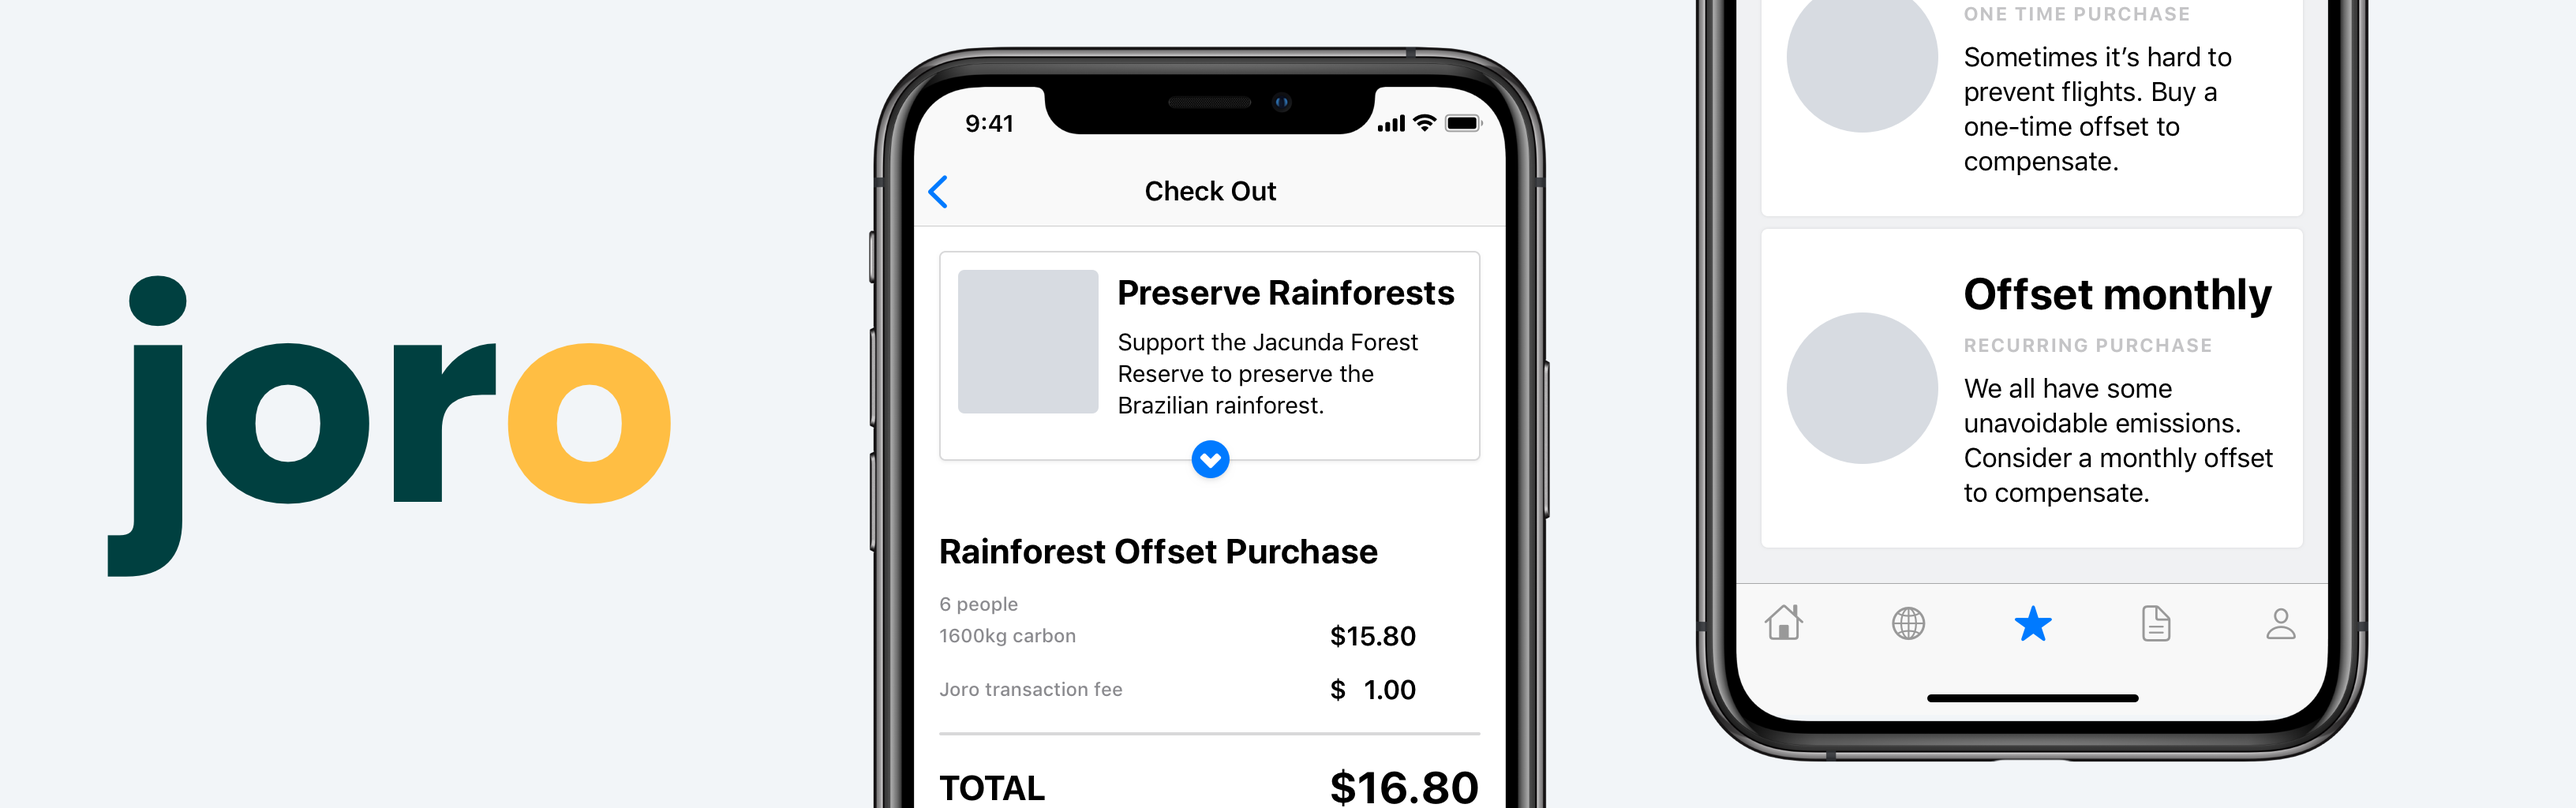
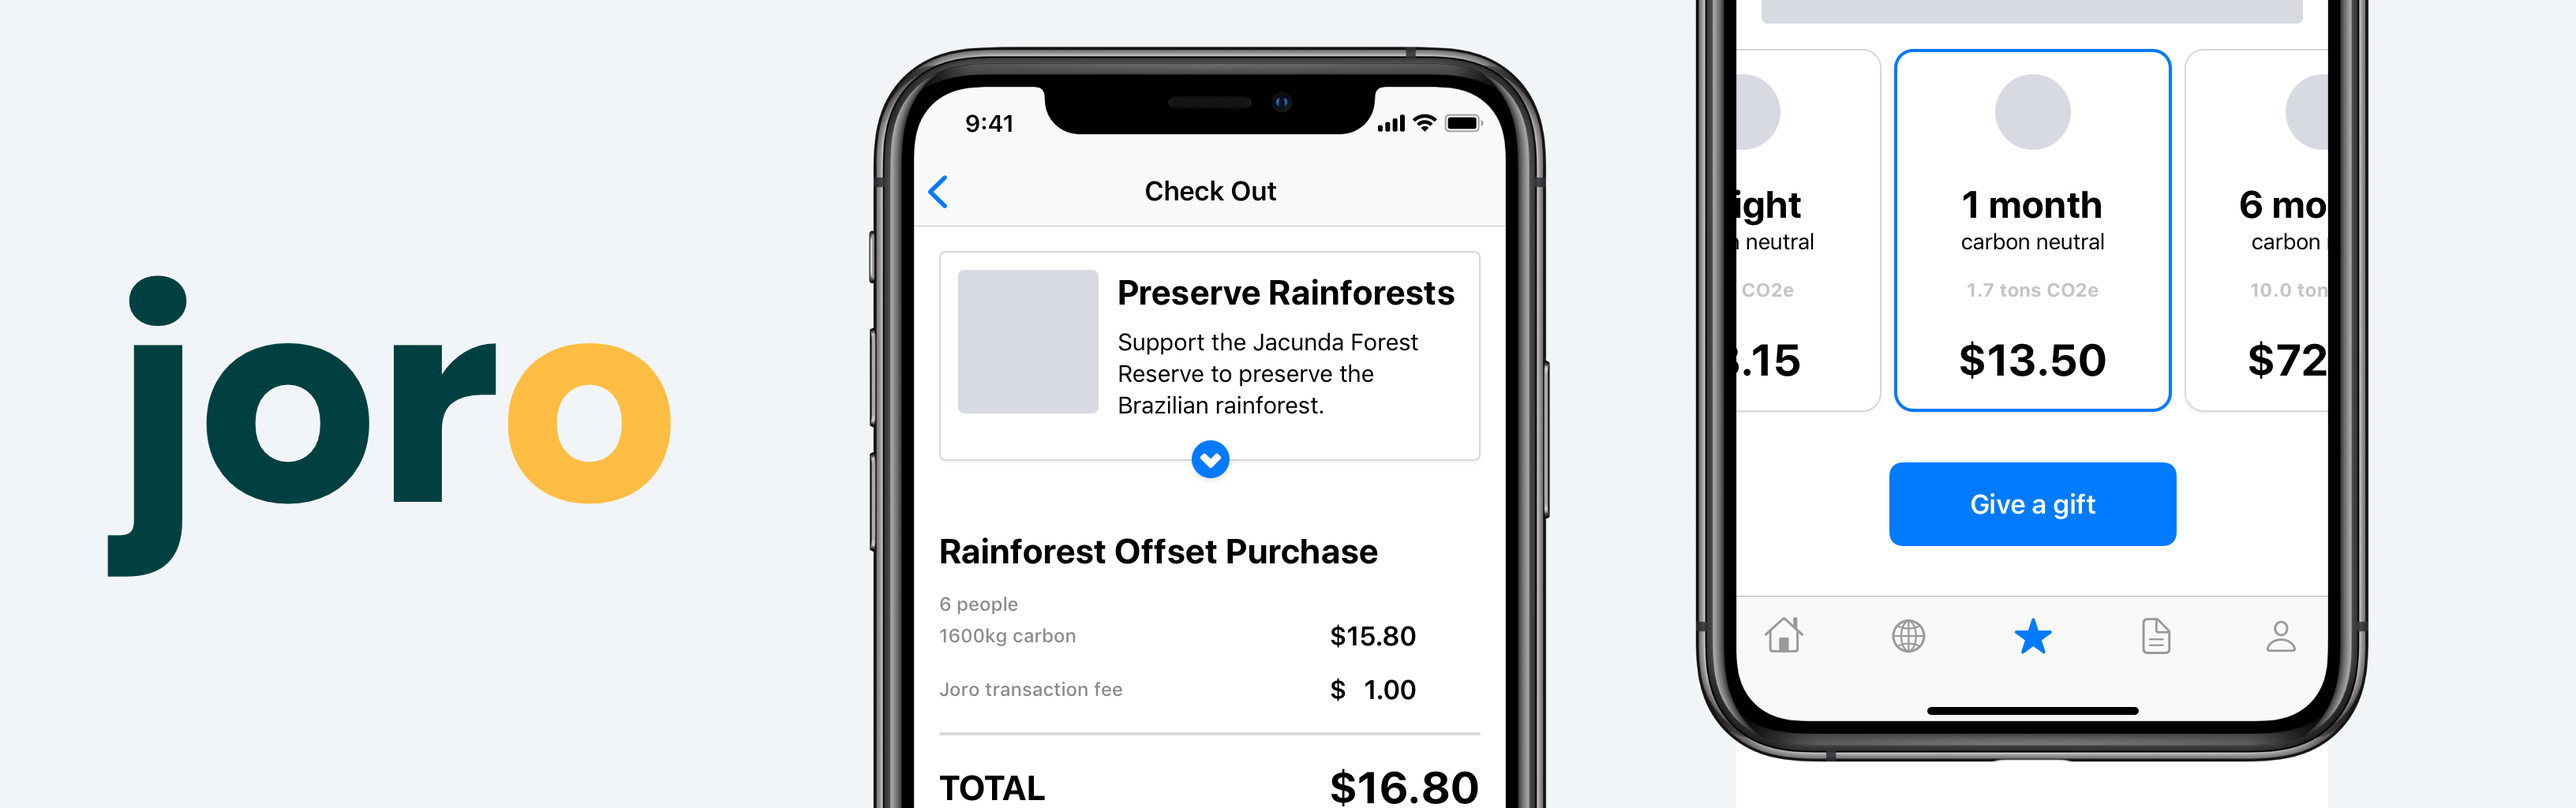
added more to joro case study

diff --git a/joro.html b/joro.html
@@ -53,14 +53,14 @@
 				<div class="case-study-text-flex">
 					<div class="case-study-body-container-center">
 						<h2 class="case-study-h2 bold-text light-grey-text">Project</h2>
-						<p class="body-text case-study-body dark-grey-text">I was asked to help Joro with the creation of their iPhone app by designing their information and user interface architecture.</p>
+						<p class="body-text case-study-body dark-grey-text">I was asked to help Joro with the creation of their iPhone app by designing their information and user interface architecture. I worked on making high fidelity mockups of their Purchase Carbon Offset userflow, and created their Give a Gift userflow.</p>
 					</div>
 				</div>
 				
 				<div class="case-study-text-flex">
 					<div class="case-study-body-container-center">
 						<h2 class="case-study-h2 bold-text light-grey-text">Problem</h2>
-						<p class="body-text case-study-body dark-grey-text">Joro had some rough sketches and mockups of what they wanted their app to look like, but needed me to adjust the visual hierarchy and produce high fidelity mockups for their engineering team.</p>		
+						<p class="body-text case-study-body dark-grey-text">Joro had rough sketches and mockups of their carbon offset flow but needed me to adjust the visual hierarchy and produce high fidelity mockups for their engineering team. I then needed to apply this styling and IA structure to an undeveloped give a gift flow.</p>		
 					</div>
 				</div>
 				
@@ -72,29 +72,31 @@
 				</div>
 				
 				
-				<img class="case-study-image" src="images/UX/slapdash/slapdashsolution.png">
+				<img class="case-study-image" src="images/UX/joro/jorosolution.png">
 				<p class="caption">Final user interface architecture for the carbon offset flow</p>
+				<img class="case-study-image" src="images/UX/joro/jorosolutiongift.png">
+				<p class="caption">Final user interface architecture for the give a gift flow</p>
 				<div class="case-study-text-flex">
 					<div class="case-study-body-container-center">
 						<h2 class="case-study-h2 bold-text light-grey-text">Solution</h2>
-						<p class="body-text case-study-body dark-grey-text">Joro's mission is to help reduce carbon emissions by making it easy for users to purchase carbon offsets. I felt it was important to make the carbon offset user flow sleek, simple, and informative for the user.</br></br>The final user interface relies heavliy on Apple's Human Interface Guidelines. Sticking to the HIG relativly tightly gave the app a very fast and native feel and made it easier for the Joro engineers to quickly implement.</p>
+						<p class="body-text case-study-body dark-grey-text">Joro's mission is to help reduce carbon emissions by making it easy for users to purchase carbon offsets. I felt it was important to make the carbon offset and give a gift user flows sleek, simple, and informative for the user.</br></br>The final user interface relies heavliy on Apple's Human Interface Guidelines. Sticking to the HIG relativly tightly gave the app a very fast and native feel and made it easier for the Joro engineers to quickly implement.</p>
 					</div>
 				</div>	
 				
 				<div class="case-study-text-flex">
 					<div class="case-study-body-container-center">
 						<h2 class="case-study-h2 bold-text light-grey-text">Prior User Research</h2>
-						<p class="body-text case-study-body dark-grey-text">Before joining this project, Joro had conducted preliminary user research to get an idea of what potential users already knew about carbon emissions, and to test some low fidelity user flows.</br></br>Looking at this information, it was clear that the UI should be clear about education and price. The users showed interest in knowing how they were helping the envirnoment through Joro and as always, exactly how much they were paying and for what.</p>
+						<p class="body-text case-study-body dark-grey-text">Before I joined this project, Joro had conducted preliminary user research to get an idea of what potential users already knew about carbon emissions, and to test some low fidelity user flows.</br></br>The users showed interest in knowing how they were helping the envirnoment through Joro and as always, exactly how much they were paying and for what.</p>
 					</div>
 				</div>
 				
-				<img class="case-study-image" src="images/UX/slapdash/slapdashinitial.png">
-				<p class="caption">The original logo.</p>
+				<img class="case-study-image" src="images/UX/joro/joroinitial.png">
+				<p class="caption">Joro's original early mockups</p>
 				
 				<div class="case-study-text-flex">
 					<div class="case-study-body-container-center">
-						<h2 class="case-study-h2 bold-text light-grey-text">Early Explorations</h2>
-						<p class="body-text case-study-body dark-grey-text">To begin the design process for this branding project, I started by getting a feel for their platform and sketching out some ideas for potential icons. During this stage of the design process I try to sketch any idea that comes to mind to not narrow down the scope of possibilities.</p>		
+						<h2 class="case-study-h2 bold-text light-grey-text">Early Work</h2>
+						<p class="body-text case-study-body dark-grey-text">I began this restructuring by digging into what work Joro already had and thinking about how to make the user flows clear, educational, and intuitive. I marked up the screens, and sketched out a few new ideas to present to Joro.</p>		
 					</div>
 				</div>
 				
@@ -104,7 +106,7 @@
 				<div class="case-study-text-flex">
 					<div class="case-study-body-container-center">
 						<h2 class="case-study-h2 bold-text light-grey-text">High Fidelity Iterations</h2>
-						<p class="body-text case-study-body dark-grey-text">After reviewing these sketches with Slapdash, I took their feedback into consideration while moving on to higher fidelity work to give some life to the sketches.</p>		
+						<p class="body-text case-study-body dark-grey-text">I took these mockups, notes, and ideas to Joro to discuss what they felt were the most important pieces of information to highlight based on user research. After picking their brains, I dove into creating a system of information hierarchy through font styles and UI work focusing on clarity of information.</p>		
 					</div>
 				</div>
 				
@@ -112,7 +114,7 @@
 				<p class="caption">A selection of higher fidelity mockups.</p>
 				<div class="case-study-text-flex">
 					<div class="case-study-body-container-center">
-						<p class="body-text case-study-body dark-grey-text">Since this was a relativly simple logo, I took the project to the high fidelity stage quickly as I was still able to rapidly iterate. These high fidelity mockups allowed me to work out details and have a frame of reference for further discussions with Slapdash.</p>
+						<p class="body-text case-study-body dark-grey-text"></p>
 					</div>
 				</div>
 				

diff --git a/index.html b/index.html
@@ -109,14 +109,14 @@
 
 			<p class="portfolio-section-header ux-header bold-text">UI & Icons Sample</p>
 			<div class="grid-container-ui-icons ">
+				<img class="portfolio-item" src="images/UI/whicons.png">
+				<img class="portfolio-item" src="images/UI/whicons2.png">
 				<img class="portfolio-item" src="images/UI/designicons@2x.png">
 				<img class="portfolio-item" src="images/UI/devicons@2x.png">
 				<img class="portfolio-item" src="images/UI/mailicons.png">
 				<img class="portfolio-item" src="images/UI/pentoolicon.png">
 				<img class="portfolio-item" src="images/UI/finderwindows.png">
 				<img class="portfolio-item" src="images/UI/swatches%20portfolio@2x.png">
-				<img class="portfolio-item" src="images/UI/safari%20400x300@2x.png">
-				<img class="portfolio-item" src="images/UI/mail%20400x300@2x.png">
 			</div>
 			<p class="shot-caption">A larger collection can be seen on <a href="https://dribbble.com/Gavin/" class="dribbble-link">Dribbble</a>
 			
